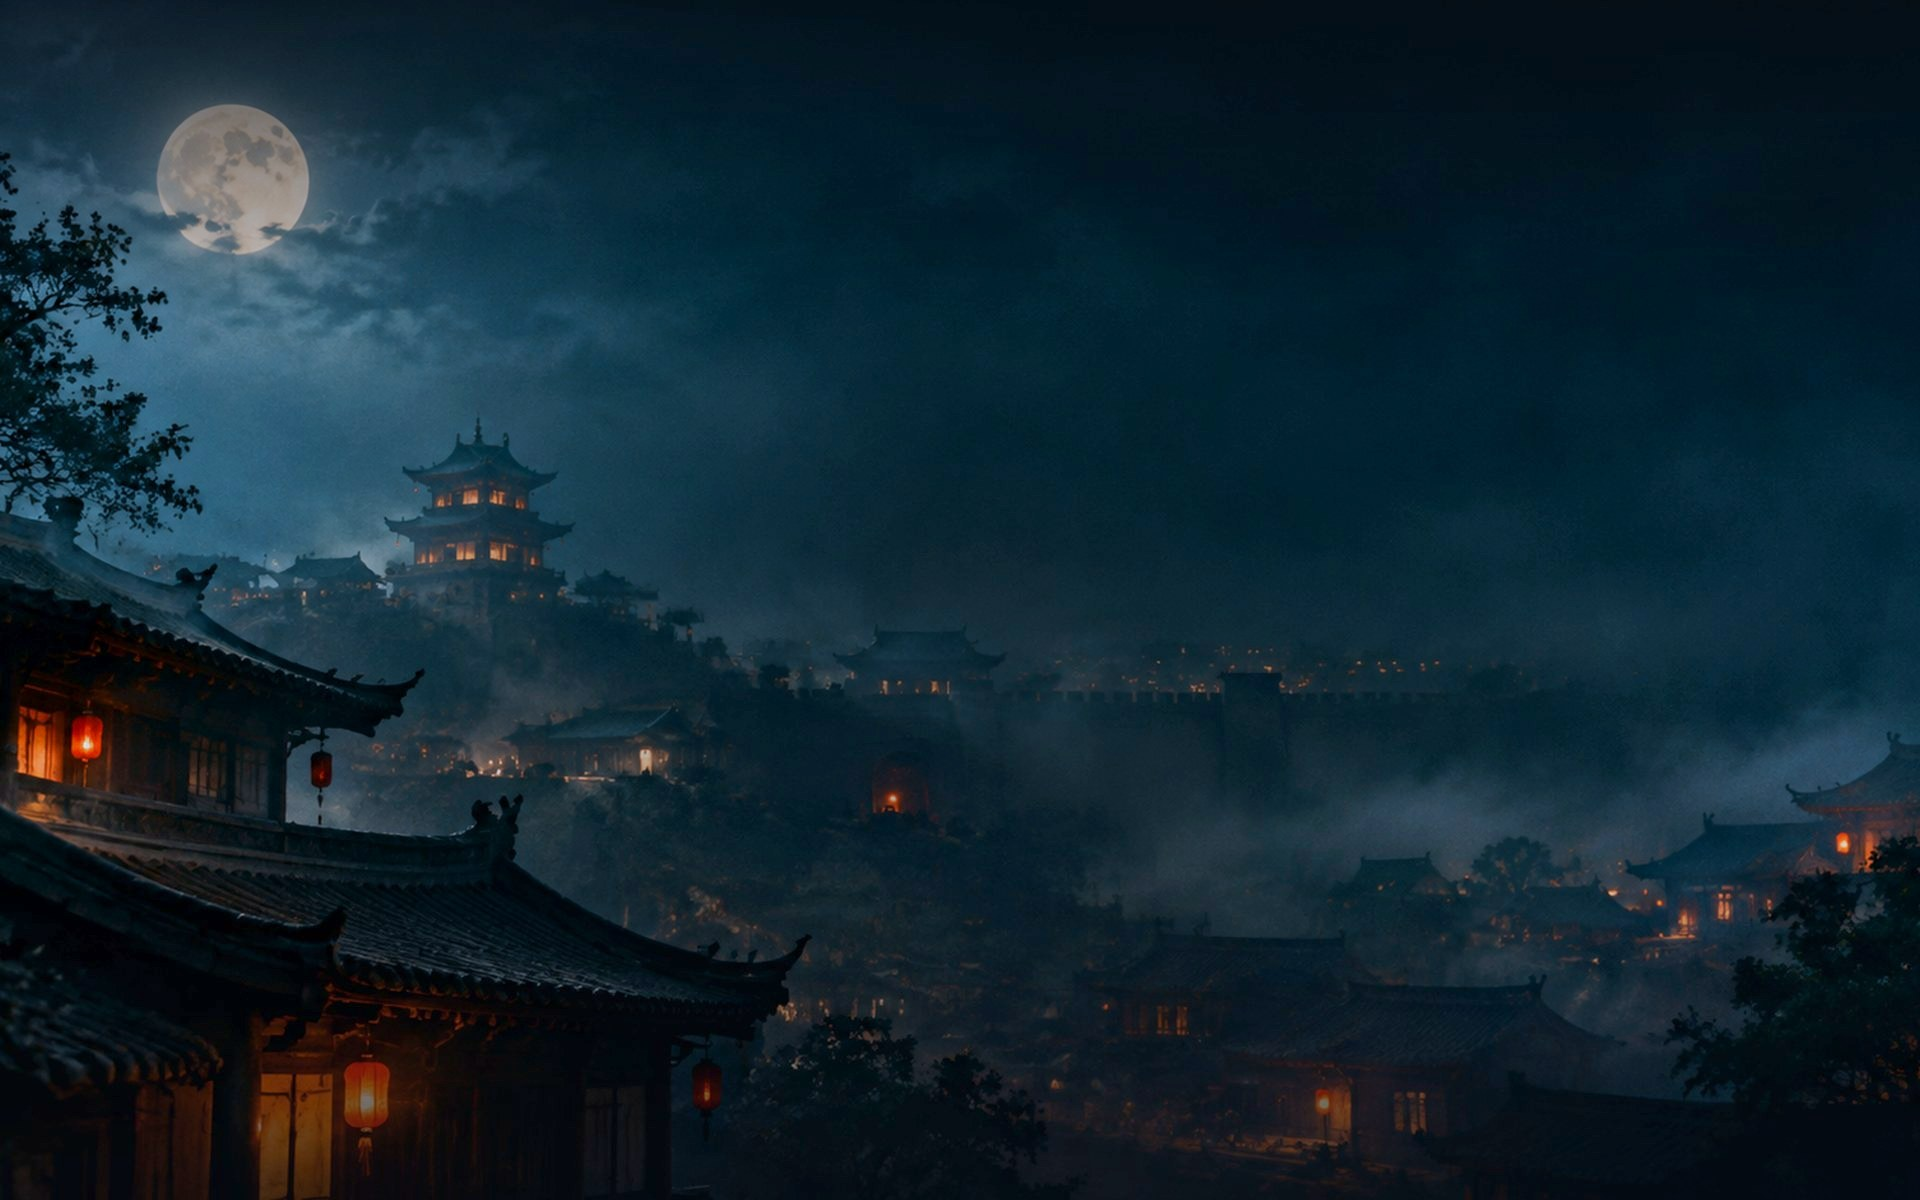
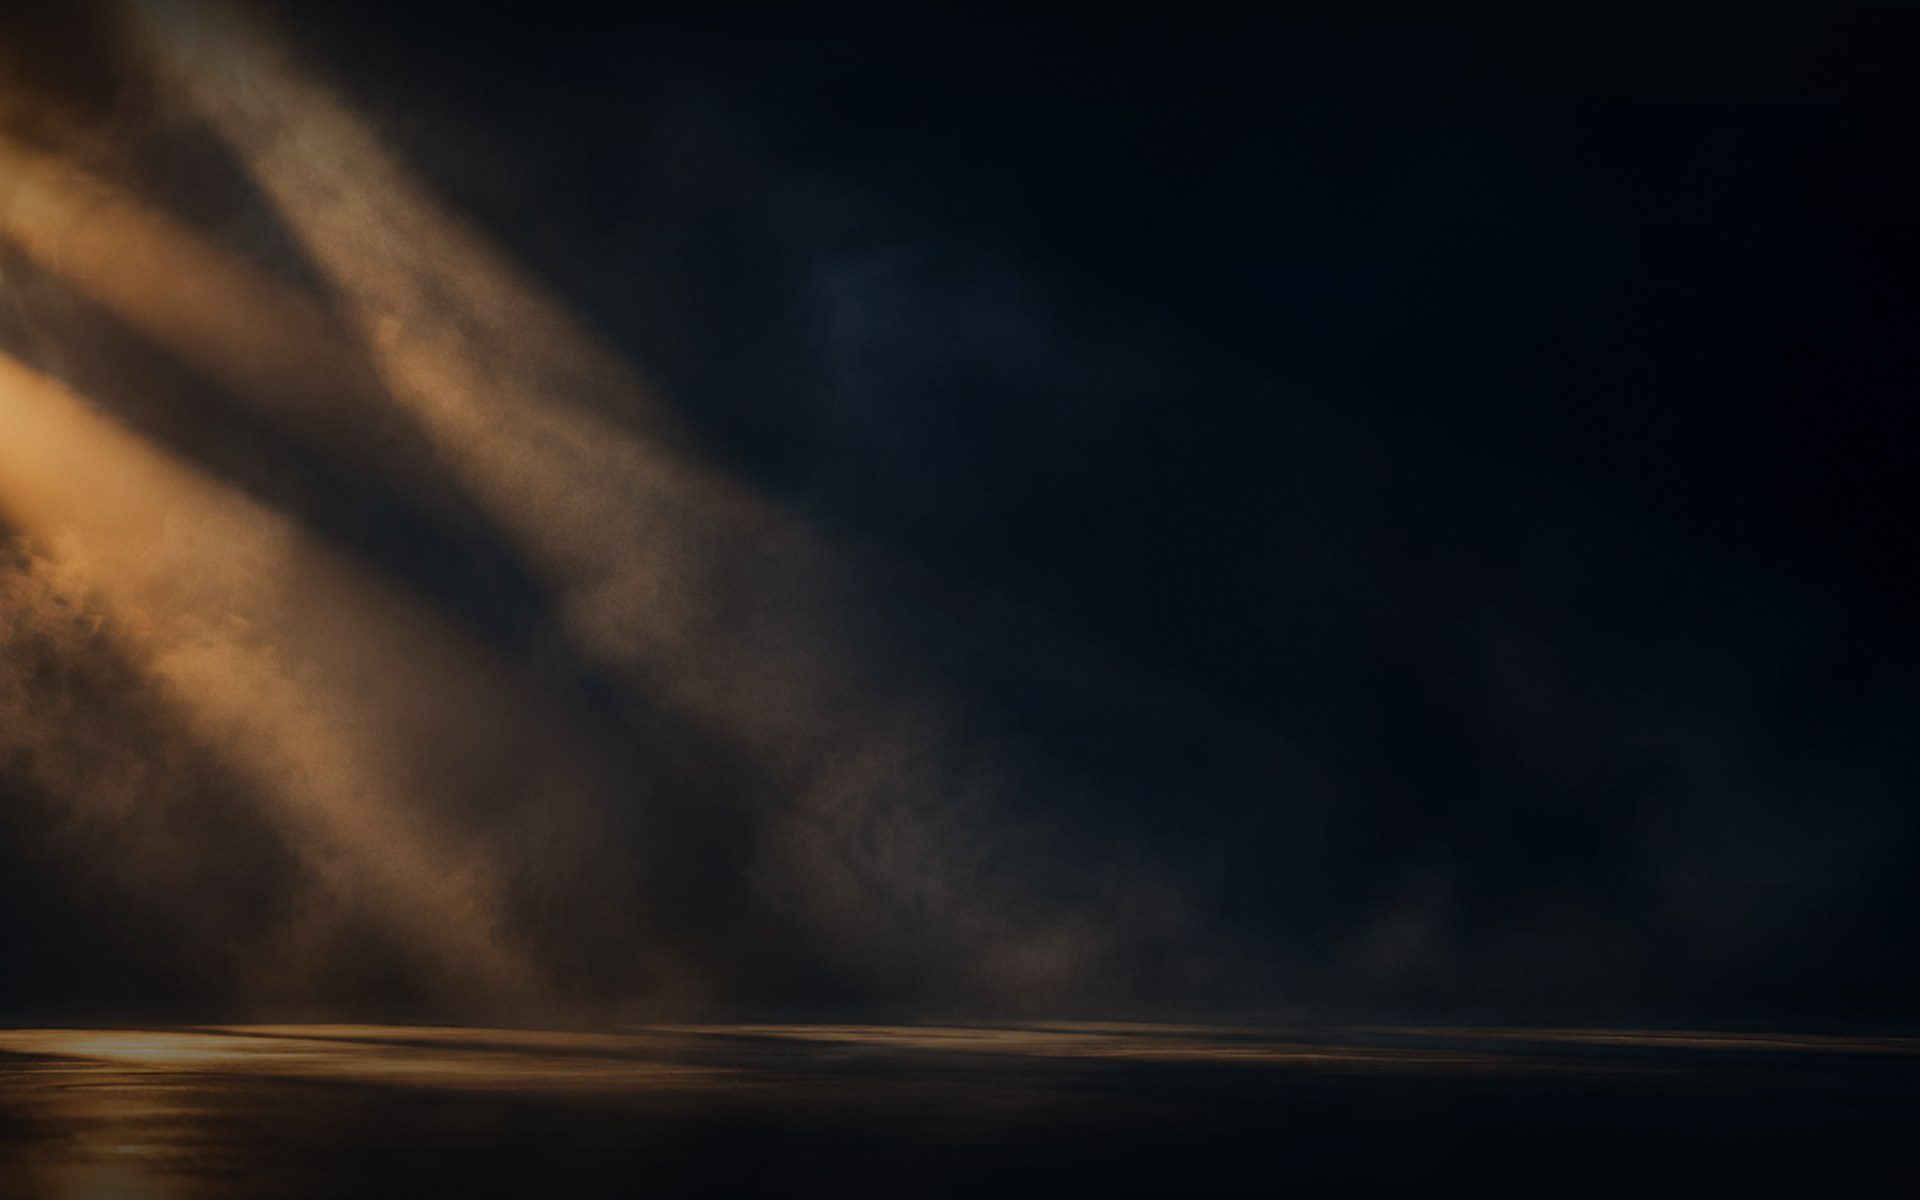
首屏背景换成抽象体积光（影棚光 + 雾 + 三束斜光），更有设计感

diff --git a/index.html b/index.html
@@ -26,7 +26,7 @@
 </header>
 
 <section class="hero" id="home">
-  <div class="hero-bg"><img src="assets/hero-bg.jpg?v=3" alt=""></div>
+  <div class="hero-bg"><img src="assets/hero-bg.jpg?v=4" alt=""></div>
   <div class="hero-inner">
     <p class="eyebrow">Director · AI Video</p>
     <h1>徐凯</h1>
